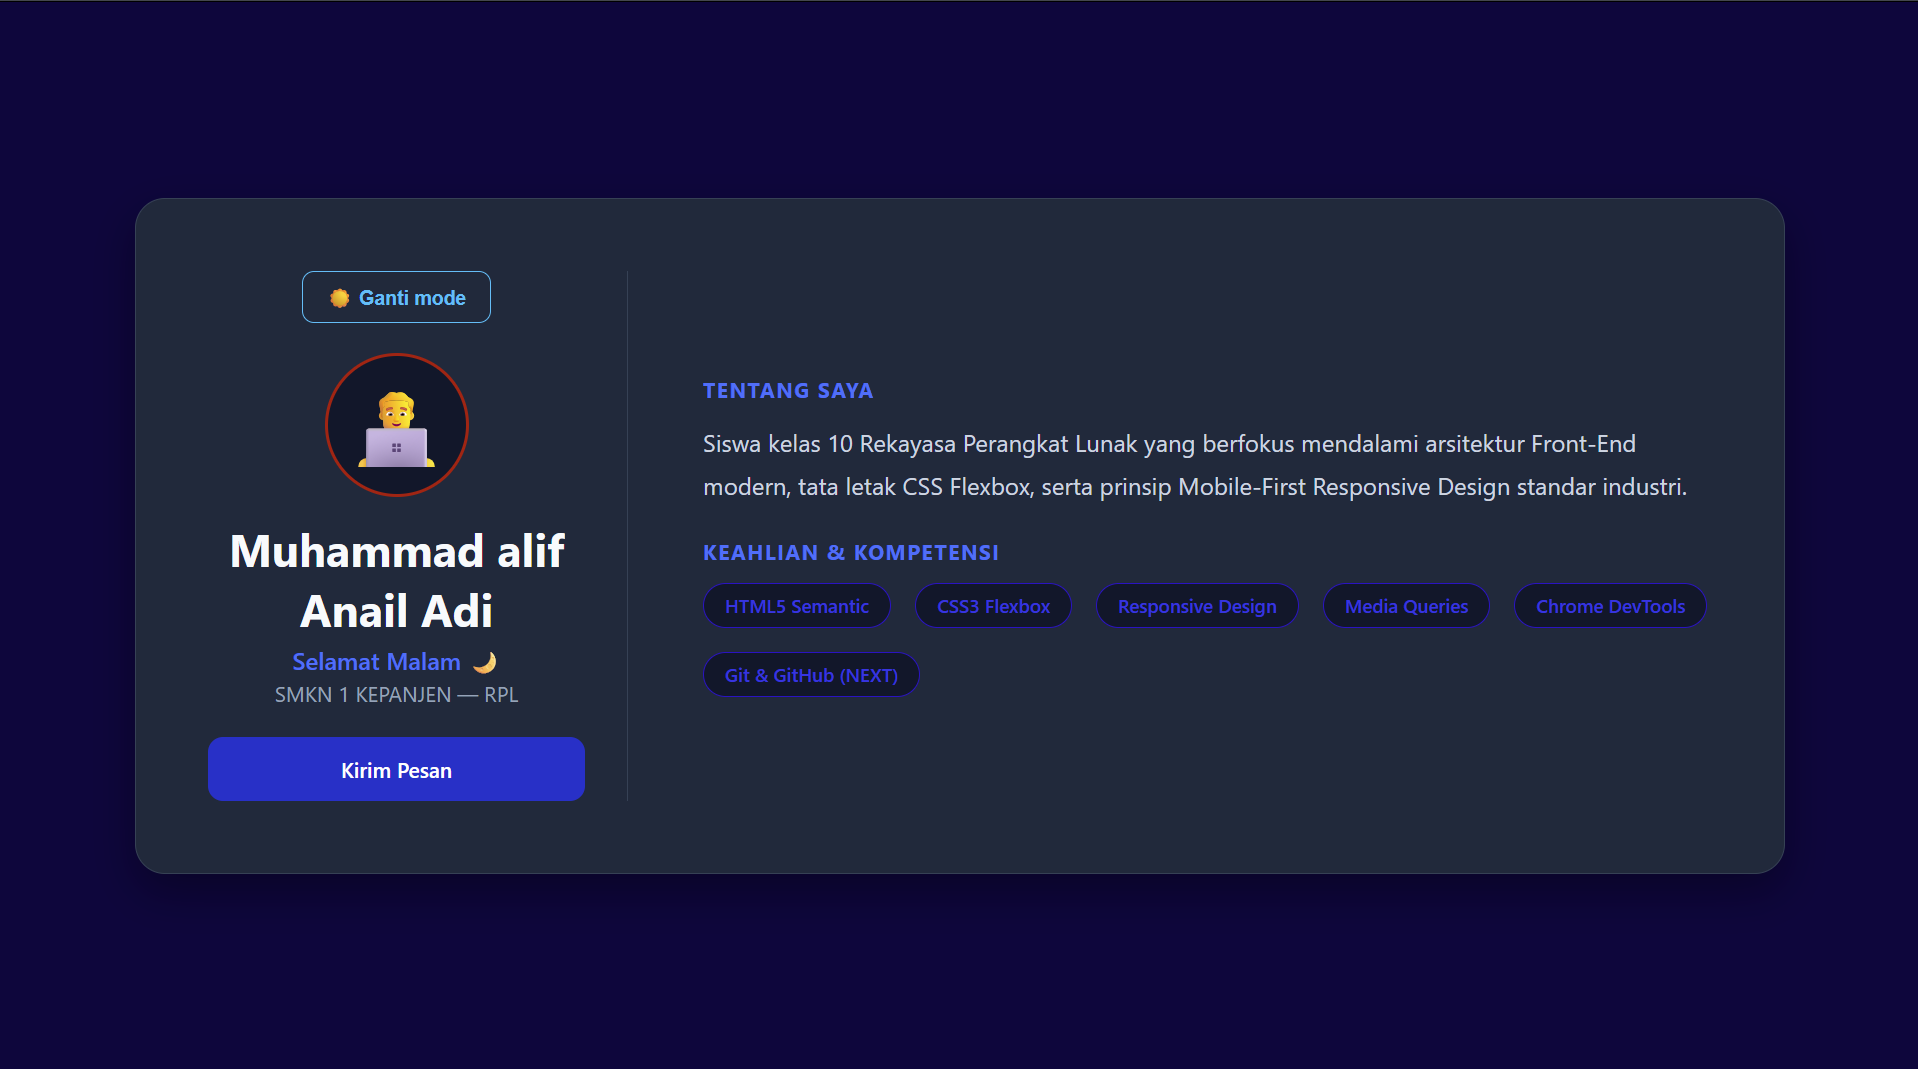
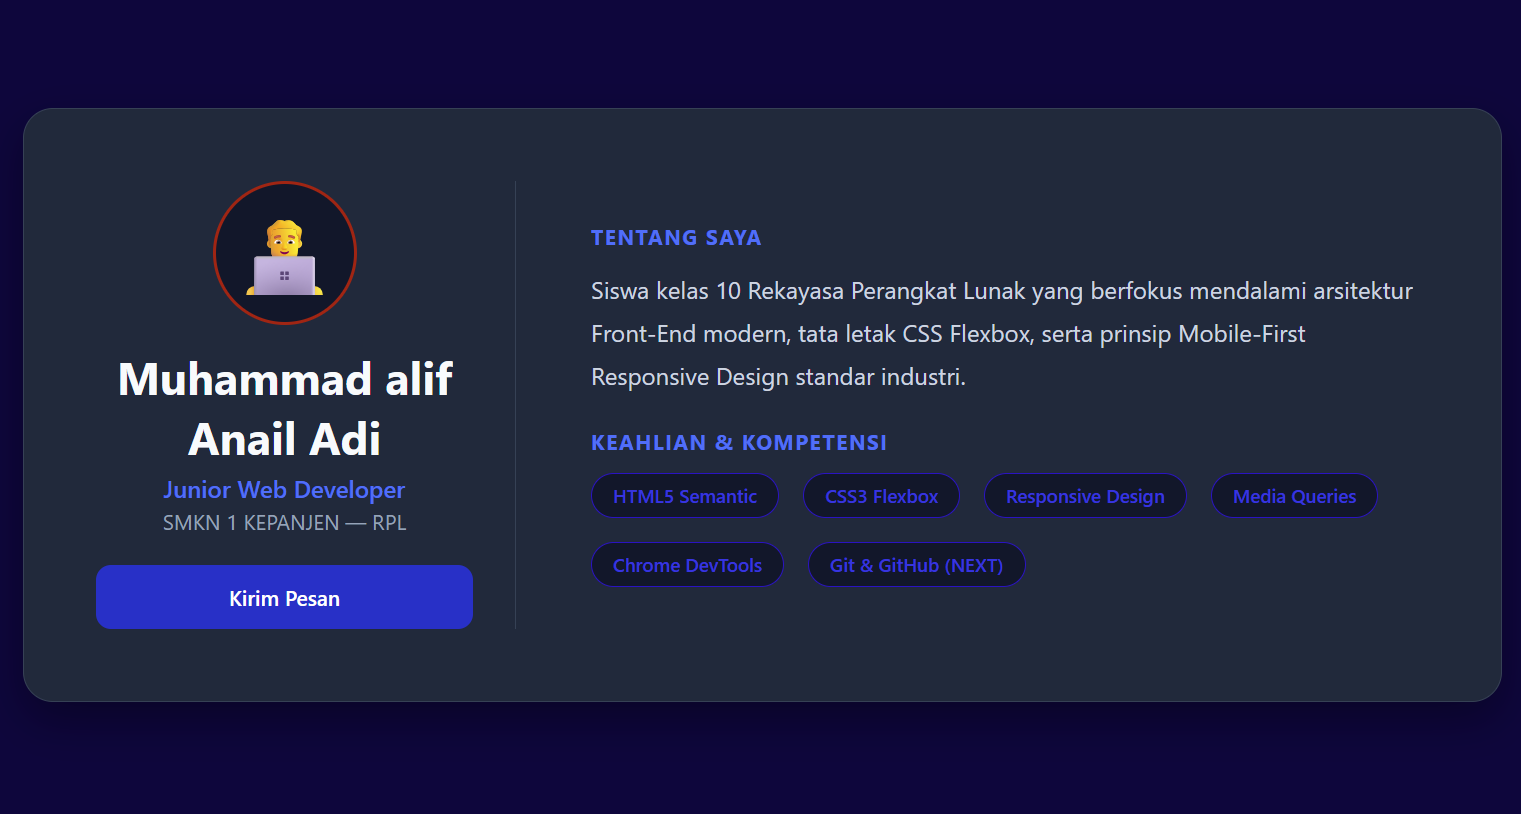
docs: struktur database supabase

diff --git a/src/data/proyek.js b/src/data/proyek.js
@@ -13,29 +13,29 @@ export const proyek = [
         ],
     },
     {
-        slug:"modul-3",
-        judul:"Modul-3",
-        kategori:"HTML,CSS,JavaScript",
-        Minggu:"minggu 03",
-        gambar:"/foto/foto-2.png",
-        deskripsi:"Modul-3 yang di buat dengan css dan html serta JavaScript dasar",
-        fitur:[
-            "membuat profil berbentuk lingkaran dan membuat icon bertuliskan keahlian kompetensi",
-            "menyususn text agar berpindah ke samping foto yang berbentuk lingkaran",
-            "serta membuat agar memiliki tema mode terang dan gelap",
-        ],
-    },
-    {
         slug:"modul-2",
         judul:"Modul-2",
         kategori:"HTML,CSS",
         Minggu:"minggu 02",
-        gambar:"/foto/foto-3.png",
+        gambar:"/foto/foto-2.png",
         deskripsi:"Modul-2 yang di buat menggunakan HTML dan CSS dasar",
         fitur:[
-            "Membuat profil lingkaran menggunakan css ",
+             "Membuat profil lingkaran menggunakan css ",
             "mengatur text kesamping dengan css dan menggunakan code (P) di html untuk membuat paragraf",
             "membuat icon keahlian kompetensi di bawah text paragraf",
+        ],
+    },
+    {
+        slug:"modul-3",
+        judul:"Modul-3",
+        kategori:"HTML,CSS,JavaScript",
+        Minggu:"minggu 03",
+        gambar:"/foto/foto-3.png",
+        deskripsi:"Modul-3 yang di buat dengan css dan html serta JavaScript dasar",
+        fitur:[
+             "membuat profil berbentuk lingkaran dan membuat icon bertuliskan keahlian kompetensi",
+            "menyususn text agar berpindah ke samping foto yang berbentuk lingkaran",
+            "serta membuat agar memiliki tema mode terang dan gelap",
         ],
     },
 ];

diff --git a/docs/database.md b/docs/database.md
@@ -1,0 +1,37 @@
+## Struktur Database Portofolio
+
+Database disimpan di Supabase, project 'protofolio Muhammad Alif Anail Adi' (region
+Southeast Asia,Singapore).Alamat project dan publishable key disimpan di '.env.local', yang tidak ikut di-commit karena tercantum di '.gitignore' ('.env*').
+
+## Tabel 'projects'
+
+Daftar Proyek portofolio Muhmmad Alif Anail Adi.
+
+|kolom | Tipe | keterangan |
+|---|---|---|
+|'id'| 'int8' | primary key, nomor otomatis 1,2,3,....|
+| 'created_at'|'timestamptz' | Waktu baris dibuat, terisi otomatis dengan 'now()'|
+|'slug'|'text'| penanda unik di alamat,misalnya 'halaman-profil'(unik) |
+|'judul'|'text'| Judul Proyek|
+|'deskripsi'| 'text'| kalimat singkat tentang proyek|
+|'kategori' | 'text' | HTML,CSS,atau JavaScript |
+|'minggu' | 'text' | Minggu proyek dibuat,misalnya 'Minggu 01' |
+|'fitur' | 'text[]' | Daftar hal yang dipelajari (array teks) |
+|'Gambar_url'| 'text'| Alamat gambar di folder  'public', misalnya '\proyek/proyek.png'|
+
+RLS aktif.policy 'pengunjung boleh membaca proyek': peran 'anon'
+boleh 'select' semua baris.
+
+## Tabel 'messagess'
+
+pesan dari form kontak.
+
+|kolom|tipe|keterangan|
+|---|---|---|
+|'id'|'int8'| primary key,nomor otomatis 1,2,3,....|
+|'created_at'| 'timestampz' | waktu baris dibuat,terisi otomatis dengan 'now()'|
+|'nama'| 'text'| Nama Pengirim|
+|'email' | 'text'| Email Pengirim | 
+|'pesan' | 'text' | isi pesan |
+
+RLS aktif tanpa policy, sehingga pengunjung tidak bisa  membaca pesan. Policy 'insert' dibuat di Minggu 15
